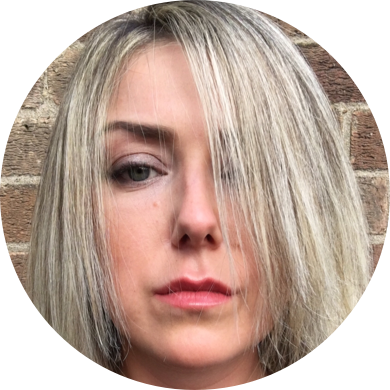
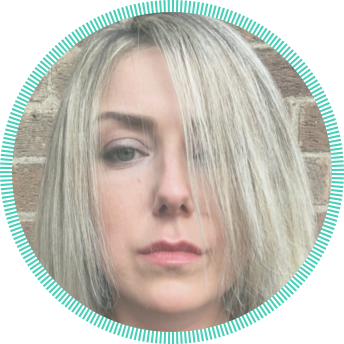
.

diff --git a/app/scripts/pages/About.js b/app/scripts/pages/About.js
@@ -1,5 +1,7 @@
 import React from 'react'
 
+import SkillsGraph from './about/SkillsGraph'
+
 const cls = elm => `About-${elm}`
 
 export default class About extends React.Component {
@@ -15,31 +17,22 @@ export default class About extends React.Component {
   render () {
     return (
       <div className='About'>
-        <div className={cls('section aboutMe')}>
+        <div className={cls('content')}>
+          <img className={cls('img')} src='/static/images/pages/ali.png'/>
           <div className={cls('title')}>All you need to know about me</div>
-          <div className={cls('content')}>
-            <img className={cls('ali')} src='/static/images/pages/ali.png'/>
+          <div className={cls('text')}>
+            I’m an UK based designer,
+            im passioned about UI / UX Design, Graphic Design,
+            Branding, Logo Design, Vector Graphics and Sketch.
+            I’m also a painter and consider myself a very creativ person.
           </div>
-        </div>
-
-        <div className={cls('section lifeEssentials')}>
-          <div className={cls('title')}>Life essentials</div>
-          <div className={cls('content')}>
-            <img className={cls('essentials')} src='/static/images/pages/essentialsMobile.png'/>
-          </div>
-        </div>
-
-        <div className={cls('section canBeFound')}>
           <div className={cls('title')}>Can be found</div>
-          <div className={cls('content')}>
-            <div className={cls('content-wrapper')}>
-              {this._getCanBeFound('• Working on projects', '50')}
-              {this._getCanBeFound('• Finding design inspiration', '20')}
-              {this._getCanBeFound('• Sleping', '30')}
-            </div>
-            <div className={cls('percentage')}>%</div>
+          <div className={cls('text')}>
+            Sketching new projects, bringin new ideas to life,
+            creating simple, beautiful and modern designs.
           </div>
         </div>
+        <SkillsGraph />
       </div>
     )
   }

diff --git a/app/scripts/pages/about/SkillsGraph.js b/app/scripts/pages/about/SkillsGraph.js
@@ -1,0 +1,73 @@
+import React from 'react'
+import {
+  Legend,
+  Tooltip,
+  RadialBar,
+  RadialBarChart,
+} from 'Recharts'
+
+const cls = elm => `SkillsGraph-${elm}`
+
+export default class SkillsGraph extends React.Component {
+  static contextTypes = {
+    env: React.PropTypes.object,
+  }
+
+  data = [
+    {name: 'UX', uv: 85, pv: 2400, fill: '#8884d8'},
+    {name: 'UI', uv: 82, pv: 1398, fill: '#8dd1e1'},
+    {name: 'Visual Design', uv: 80, pv: 9800, fill: '#82ca9d'},
+    {name: 'Product Thinking', uv: 78, pv: 3908, fill: '#a4de6c'},
+    {name: 'Research', uv: 76, pv: 4800, fill: '#d0ed57'},
+    {name: 'Prototyping', uv: 74, pv: 4800, fill: '#ffc658'},
+  ]
+
+  componentwillMount () {
+    if (!this.context.env.isBrowser()) {
+      return null
+    }
+  }
+
+  _getChart () {
+    if (!this.context.env.isBrowser()) {
+      return null
+    }
+    return (
+      <RadialBarChart
+        cx={150}
+        cy={150}
+        width={500}
+        barSize={10}
+        height={150}
+        innerRadius={20}
+        outerRadius={140}
+        data={this.data}
+        className={cls('chart')}
+      >
+        <RadialBar
+          label
+          background
+          dataKey='uv'
+          minAngle={15}
+          clockWise={true}
+        />
+        <Legend
+          height={140}
+          iconSize={10}
+          layout='vertical'
+          verticalAlign='middle'
+        />
+        <Tooltip offset={-150}/>
+      </RadialBarChart>
+    )
+  }
+
+  render () {
+    return (
+      <div className='SkillsGraph'>
+        <div className={cls('title')}>My Skills</div>
+        {this._getChart()}
+      </div>
+    )
+  }
+}

diff --git a/app/styles/pages/About.scss b/app/styles/pages/About.scss
@@ -4,43 +4,42 @@
   flex-direction: column;
   justify-content: center;
   font-weight: lighter;
-  &-section {
-    display: flex;
-    align-items: center;
-    flex-direction: column;
-    justify-content: center;
+  color: $greyish-brown;
+  padding: 10px 20px;
+  @include media (desktop) {
+    margin: auto;
+    max-width: 1000px;
+    flex-direction: row;
+    justify-content: space-around;
   }
   &-title {
-    @include title();
+    font-size: 20px;
+    font-weight: $bold;
     max-width: 200px;
+    text-align: center;
   }
-  &-ali {
+  &-text {
+    font-size: 14px;
+    padding: 10px 0;
+    @include media (tablet) {
+      font-size: 25px;
+      padding: 15px 0;
+      text-align: center;
+    }
+  }
+  &-img {
     height: 130px;
     width: 130px;
-  }
-  &-essentials {
-    width: 236px;
-    height: 142px;
-  }
-  &-percentage {
-    font-size: 50px;
-    padding-left: 20px;
+    margin-bottom: 10px;
   }
   &-content {
     display: flex;
     font-size: 14px;
     align-items: center;
-    color: $color-grey-warm;
+    flex-direction: column;
     justify-content: space-between;
-    &-wrapper {
-      &-section {
-        display: flex;
-        align-items: center;
-        justify-content: space-between;
-      }
-      &-percentage {
-        padding-left: 10px;
-      }
+    @include media (tablet) {
+      max-width: 450px;
     }
   }
 }

diff --git a/app/styles/pages/about/SkillsGraph.scss b/app/styles/pages/about/SkillsGraph.scss
@@ -1,0 +1,26 @@
+.SkillsGraph {
+  &-chart {
+    width: 300px !important;
+    height: 300px !important;
+  }
+  &-title {
+    font-size: 20px;
+    max-width: 200px;
+    font-weight: $bold;
+    text-align: center;
+    margin: 0 auto;
+    @include media (tablet) {
+      margin: 10px auto 0;
+    }
+  }
+  &-legend {
+    width: 150px;
+    height: 240px;
+  }
+  .recharts-legend-wrapper {
+    top: initial !important;
+    bottom: 0 !important;
+    left: 13px !important;
+    line-height: 24px !important;
+  }
+}
